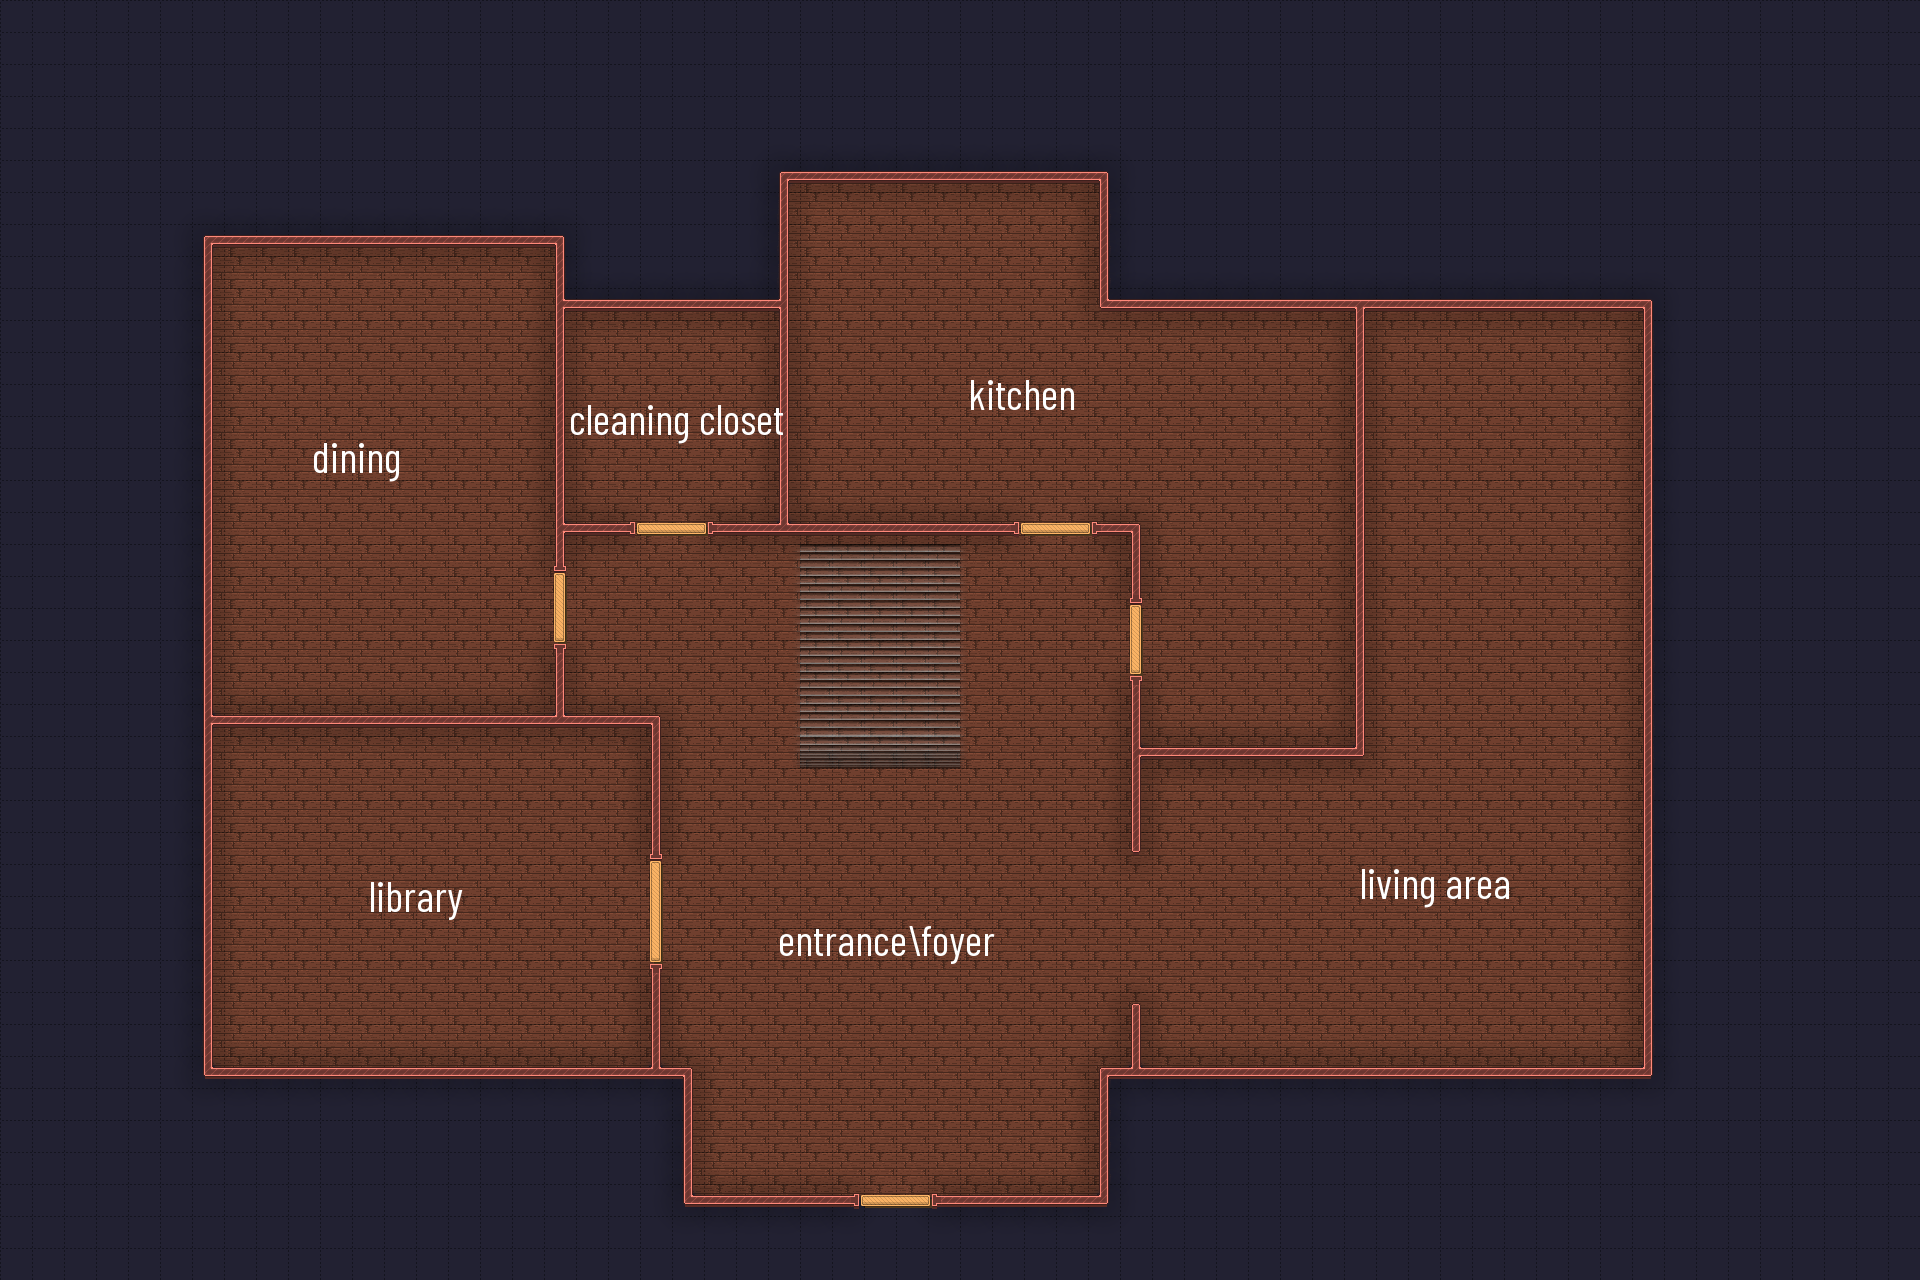
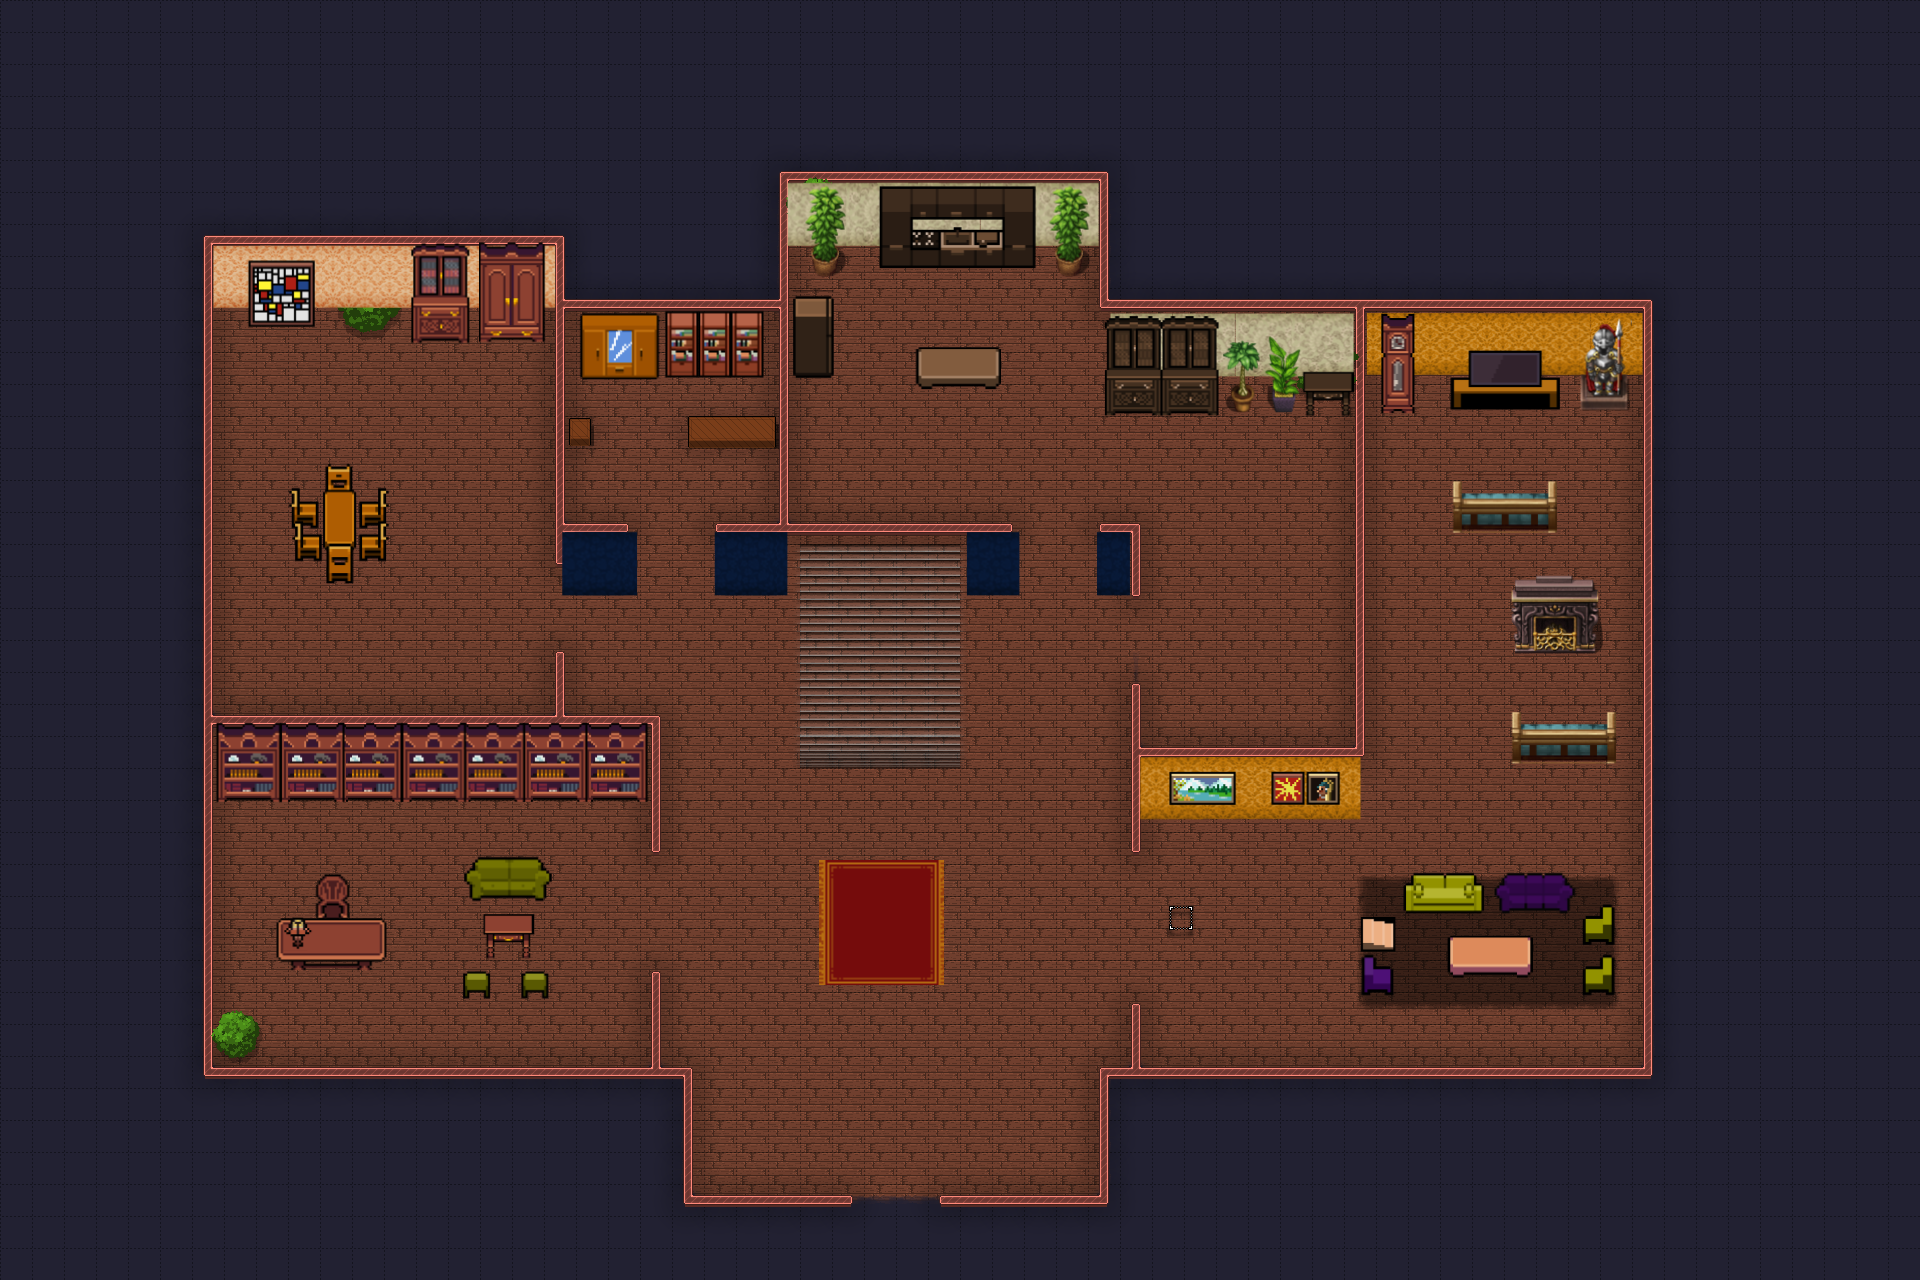
started furniture rectangles not sure if this is the most efficient

diff --git a/map_game.py b/map_game.py
@@ -30,63 +30,51 @@ pygame.display.set_caption('name work in progress')
 
 #player class
 class Player:
-    def __init__(self,surface, x, y, width, height, speed,moving):
+    def __init__(self, surface, x, y, width, height, speed, moving):
         self.surface = surface
         self.rect = self.surface.get_rect()
         self.speed = speed
         self.rect.center = screen_rect.center
         self.moving = moving
 
-    def move(self, x, y, walls):
-        #move horizontally
-        self.rect.x += x
-        for wall in walls:
-            if self.moving:
-                if self.rect.colliderect(wall.rect):
-                    if x > 0:  #hit the left side of wall
-                        self.rect.right = wall.rect.left
-                    if x < 0:  #hit the right side of wall
-                        self.rect.left = wall.rect.right
-
-        #move vertically
-        self.rect.y += y
-        for wall in walls:
-            if self.moving:
-                if self.rect.colliderect(wall.rect):
-                    if y > 0:  #hit the top side of wall
-                        self.rect.bottom = wall.rect.top
-                    if y < 0:  #hit the bottom side of wall
-                        self.rect.top = wall.rect.bottom
-
     def player_movement(self, walls, map_offset):
         keys = pygame.key.get_pressed()
         x, y = 0, 0
         
         if keys[pygame.K_w]:
-            y = -self.speed #up
+            y = self.speed  # move map down
             self.moving = True
         if keys[pygame.K_s]:
-            y = self.speed #down
+            y = -self.speed  # move map up
             self.moving = True
         if keys[pygame.K_a]:
-            x = -self.speed #left
+            x = self.speed  # move map right
             self.moving = True
         if keys[pygame.K_d]:
-            x = self.speed #right
+            x = -self.speed  # move map left
             self.moving = True
 
-        #change player position and map offset based on player movement
-        if self.rect.left + x < 0 or self.rect.right + x > screen_rect.width:
-            map_offset[0] -= x
-        else:
-            self.move(x, 0, walls)
+        # Check for collisions and update the map offset
+        for wall in walls:
+            # Update wall positions based on the current offset
+            wall.update_position(map_offset[0] + x, map_offset[1] + y)
 
-        if self.rect.top + y < 0 or self.rect.bottom + y > screen_rect.height:
-            map_offset[1] -= y
-        else:
-            self.move(0, y, walls)
+            if self.rect.colliderect(wall.rect):  # Collision detected
+                if x > 0:  # moving right, push map back to the left
+                    x = 0
+                if x < 0:  # moving left, push map back to the right
+                    x = 0
+                if y > 0:  # moving down, push map back up
+                    y = 0
+                if y < 0:  # moving up, push map back down
+                    y = 0
+
+        # Update the map offset based on movement and collisions
+        map_offset[0] += x
+        map_offset[1] += y
 
         return self.moving
+
 
 #wall class
 class Wall:
@@ -106,7 +94,7 @@ class Wall:
 def draw_walls(list, map_x, map_y):
     for wall in list:
         wall.update_position(map_x, map_y)
-        pygame.draw.rect(screen, (255, 255, 255), wall.rect)
+        pygame.draw.rect(screen,(255, 255, 255,), wall.rect)
 
 #variables
 speed = 5
@@ -117,18 +105,27 @@ thief_frame = 0
 moving = False
 
 #player
-thief_sprites = [pygame.image.load('thief/tile000.png').convert(),
-                pygame.image.load('thief/tile001.png').convert(),
-                pygame.image.load('thief/tile002.png').convert(),
-                pygame.image.load('thief/tile003.png').convert(),
-                pygame.image.load('thief/tile004.png').convert(),
-                pygame.image.load('thief/tile005.png').convert(),
-                pygame.image.load('thief/tile006.png').convert(),
-                pygame.image.load('thief/tile007.png').convert(),
-                pygame.image.load('thief/tile008.png').convert(),
-                pygame.image.load('thief/tile009.png').convert(),
-                pygame.image.load('thief/tile010.png').convert(),
-                pygame.image.load('thief/tile011.png').convert()]
+thief_sprites = []
+for sprite in range(12):  #tile000.png to tile011.png
+    
+    #image name
+    sprite_file = f'thief/tile{sprite:03}.png'  #:03 so it has 3 digits
+        
+    #load
+    original_sprite = pygame.image.load(sprite_file).convert()
+        
+    #get sprite dimensions
+    original_width, original_height = original_sprite.get_size()
+        
+    #change ONLY height to 55px
+    new_height = 50
+    new_width = (50/original_height) * original_width
+    new_size = (new_width, new_height)
+        
+    resized_sprite = pygame.transform.scale(original_sprite, new_size)
+        
+    #append to sprite list
+    thief_sprites.append(resized_sprite)
 
 thief = Player(thief_sprites[8],450, 300, 50, 50, 5,moving) #x and y values are in the center but this places the thief 'top left' in the middle
 # thief.rect.center = screen_rect.center
@@ -155,6 +152,11 @@ lib_right_top = wall_list.append(Wall(650 - center_offset_x, 675 - center_offset
 lib_right_bottom = wall_list.append(Wall(650 - center_offset_x, 920 - center_offset_y, 10, 1030-920))
 lib_bottom = wall_list.append(Wall(205 - center_offset_x, 1030 - center_offset_y, 685-205, 10))
 
+# furniture
+lib_couch = wall_list.append(Wall(465 - center_offset_x,820 - center_offset_y, 85, 5))
+lib_table = wall_list.append(Wall(485 - center_offset_x,880 - center_offset_y, 50,5))
+# lib_shelf = wall_list.append(Wall())
+
 #dining
 din_top = wall_list.append(Wall(210 - center_offset_x, 195 - center_offset_y, 560-205, 10))
 din_lib_left = wall_list.append(Wall(205 - center_offset_x, 200 - center_offset_y, 10, 1030-200))
@@ -173,6 +175,7 @@ kit_right_top = wall_list.append(Wall(1100 - center_offset_x, 135 - center_offse
 kit_liv_top = wall_list.append(Wall(1100 - center_offset_x, 260 - center_offset_y, 1645-1100, 10))
 kit_bottom_right = wall_list.append(Wall(1135 - center_offset_x, 710 - center_offset_y, 1365-1135, 10))
 kit_left_top = wall_list.append(Wall(1130 - center_offset_x, 485 - center_offset_y, 10, 565-485))
+kit_top = wall_list.append(Wall(780 - center_offset_x, 135 - center_offset_y, 1100-780,10))
 kit_left_bottom = wall_list.append(Wall(1130 - center_offset_x, 630 - center_offset_y, 10, 810-630))
 
 #living area
@@ -197,7 +200,7 @@ map_offset = [0, 0]
 #game loop
 while True:
     keys = pygame.key.get_pressed()
-    moving = False  #reset moving status before checking keys
+    moving = False  # reset moving status before checking keys
 
     for event in pygame.event.get():
         if event.type == pygame.QUIT:
@@ -205,7 +208,7 @@ while True:
             sys.exit()
 
         if event.type == pygame.MOUSEBUTTONDOWN:
-            print(pygame.mouse.get_pos())  #for checking coordinates
+            print(pygame.mouse.get_pos())  # for checking coordinates
 
         if event.type == ANIMATION:
             if keys[pygame.K_w]:
@@ -219,14 +222,14 @@ while True:
 
     moving = thief.player_movement(wall_list, map_offset)
 
-    #update the current sprite based on the animation frame
+    # update the current sprite based on the animation frame
     current_sprite = thief_sprites[thief_frame]
     thief.surface = current_sprite
 
-    #update floor position
+    # update floor position
     floor_1_rect = floor_1_surface.get_rect(center=(map_x + map_offset[0], map_y + map_offset[1]))
 
-    #draw everything
+    # draw everything
     screen.fill((0, 0, 0))
     screen.blit(floor_1_surface, floor_1_rect)
     screen.blit(thief.surface, thief.rect)
@@ -234,5 +237,6 @@ while True:
     draw_walls(wall_list, map_offset[0], map_offset[1])
 
     pygame.display.update()
-    clock.tick(60)  #frame rate
+    clock.tick(60)  # frame rate
+
 
